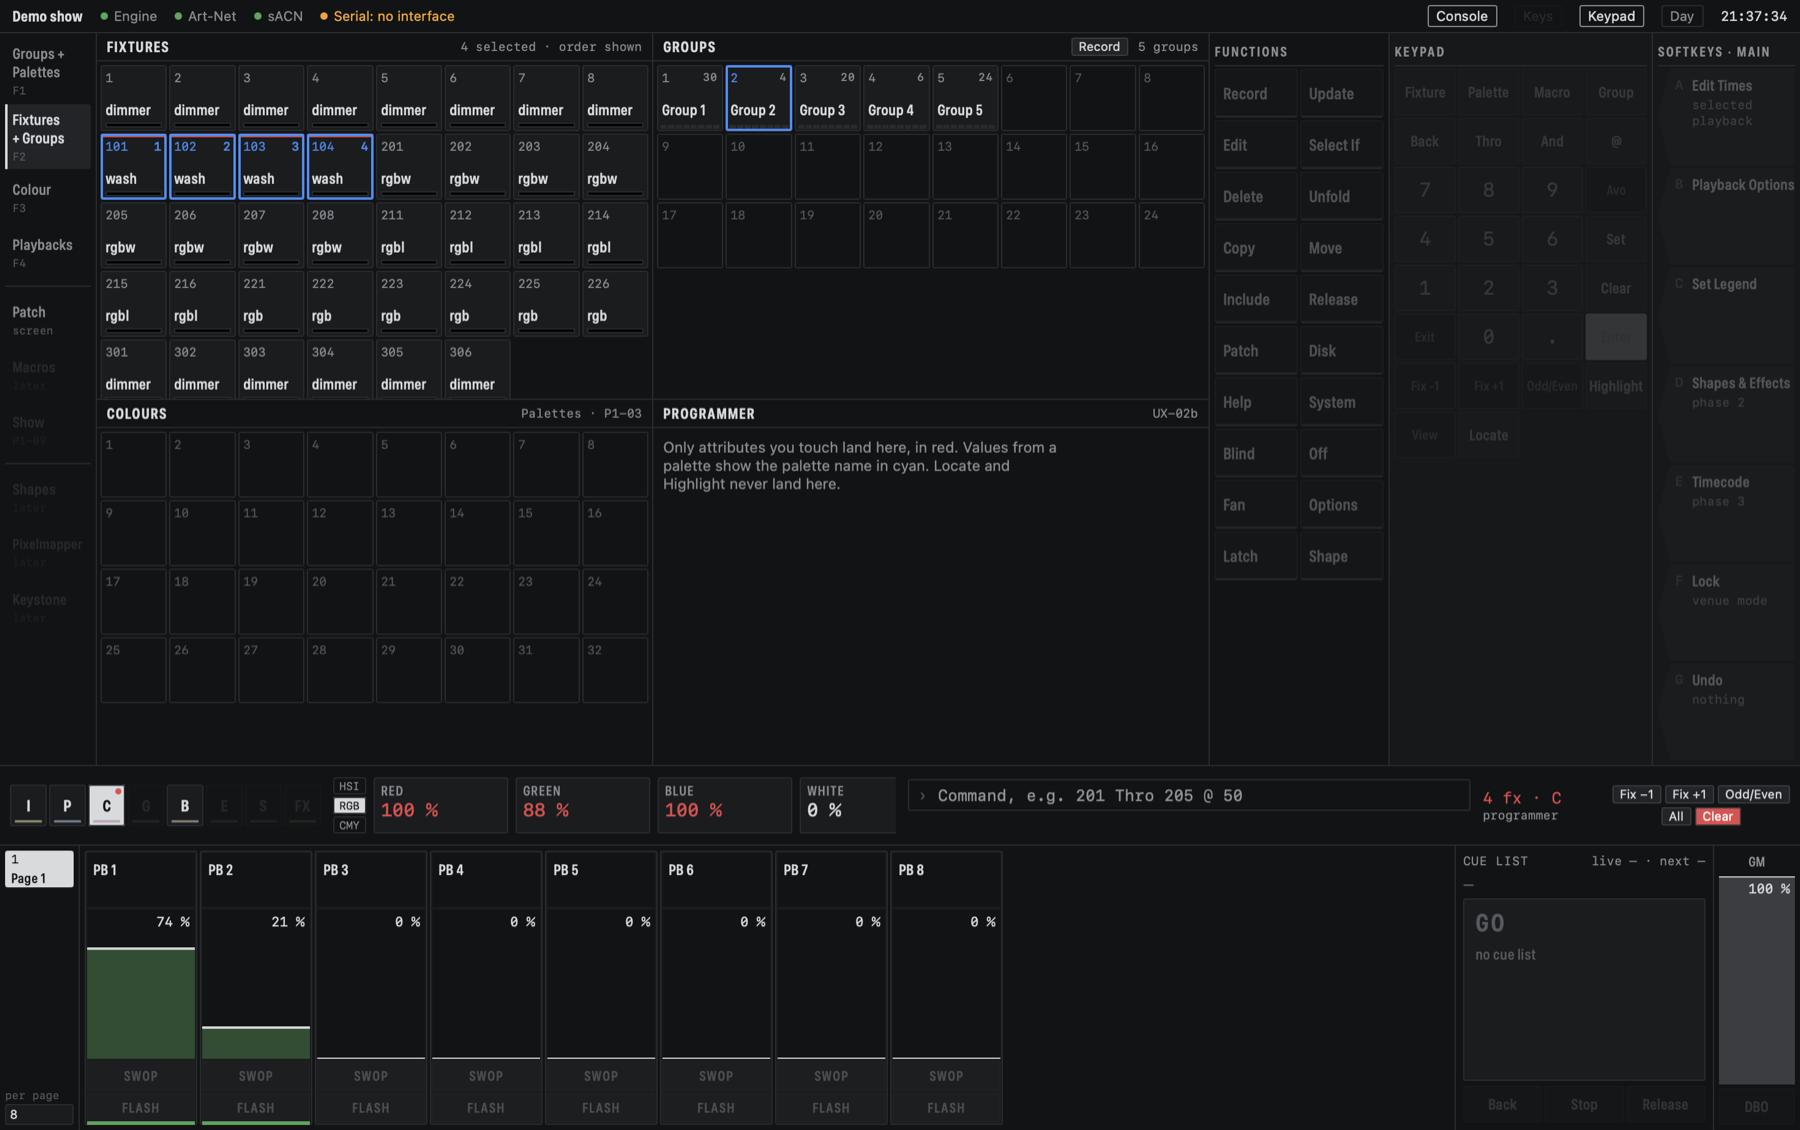
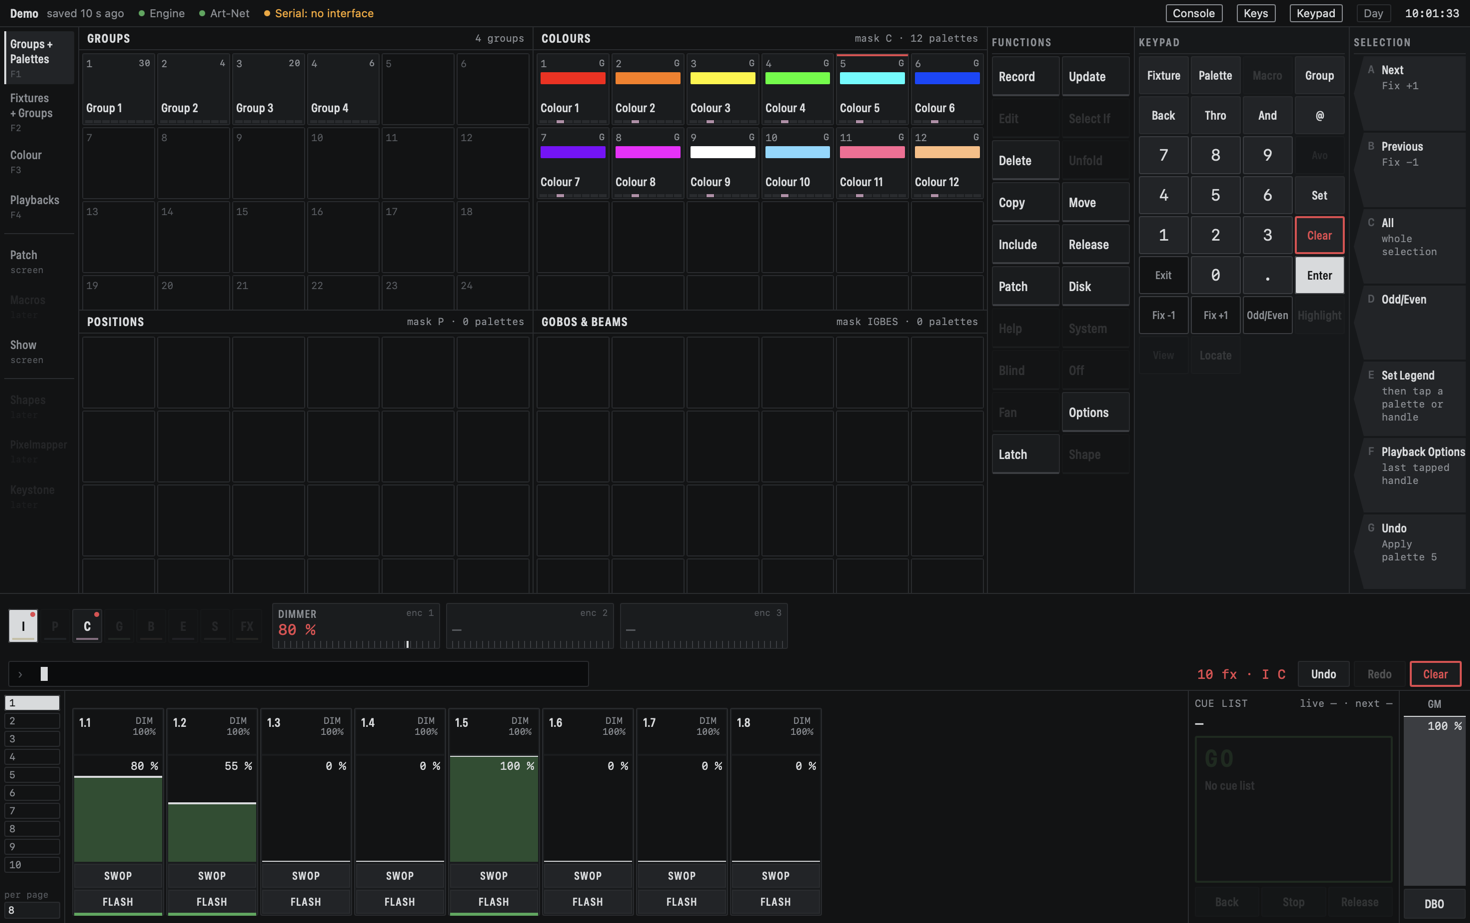
docs: new main-screen and Colour workspace screenshots (VS5-03)

diff --git a/README.md b/README.md
@@ -18,10 +18,16 @@ owner's church run on it instead of Lightkey.
 The rig there has about 30 fixtures: moving-head washes, mixed RGBW / RGB+Lime / RGB pars and
 theatre spots.
 
-![The main screen: fixtures, groups, palettes, programmer, function buttons, keypad, softkeys, attribute bar and playback faders](docs/screenshots/main-screen.png)
+![The main screen: groups, colour palettes, function buttons, keypad, softkeys, attribute bar, the Undo and Redo keys and playback faders](docs/screenshots/main-screen.png)
 
-*The main screen, against a demo of the church rig. Controls that are not built yet are greyed
-out.*
+*The main screen, against a demo of the church rig: twelve colour palettes, ten pars in the
+programmer (red) on palette 5, three faders up, and softkey G ready to undo "Apply palette 5".
+Controls that are not built yet are greyed out.*
+
+![The Colour workspace: fixtures, colour picker, colour palettes and the Programmer window](docs/screenshots/colour-workspace.png)
+
+*The Colour workspace (F3): the selected pars in blue, the colour picker, and the Programmer
+window with each fixture's values; cyan means the value comes from a palette.*
 
 ## Status
 
